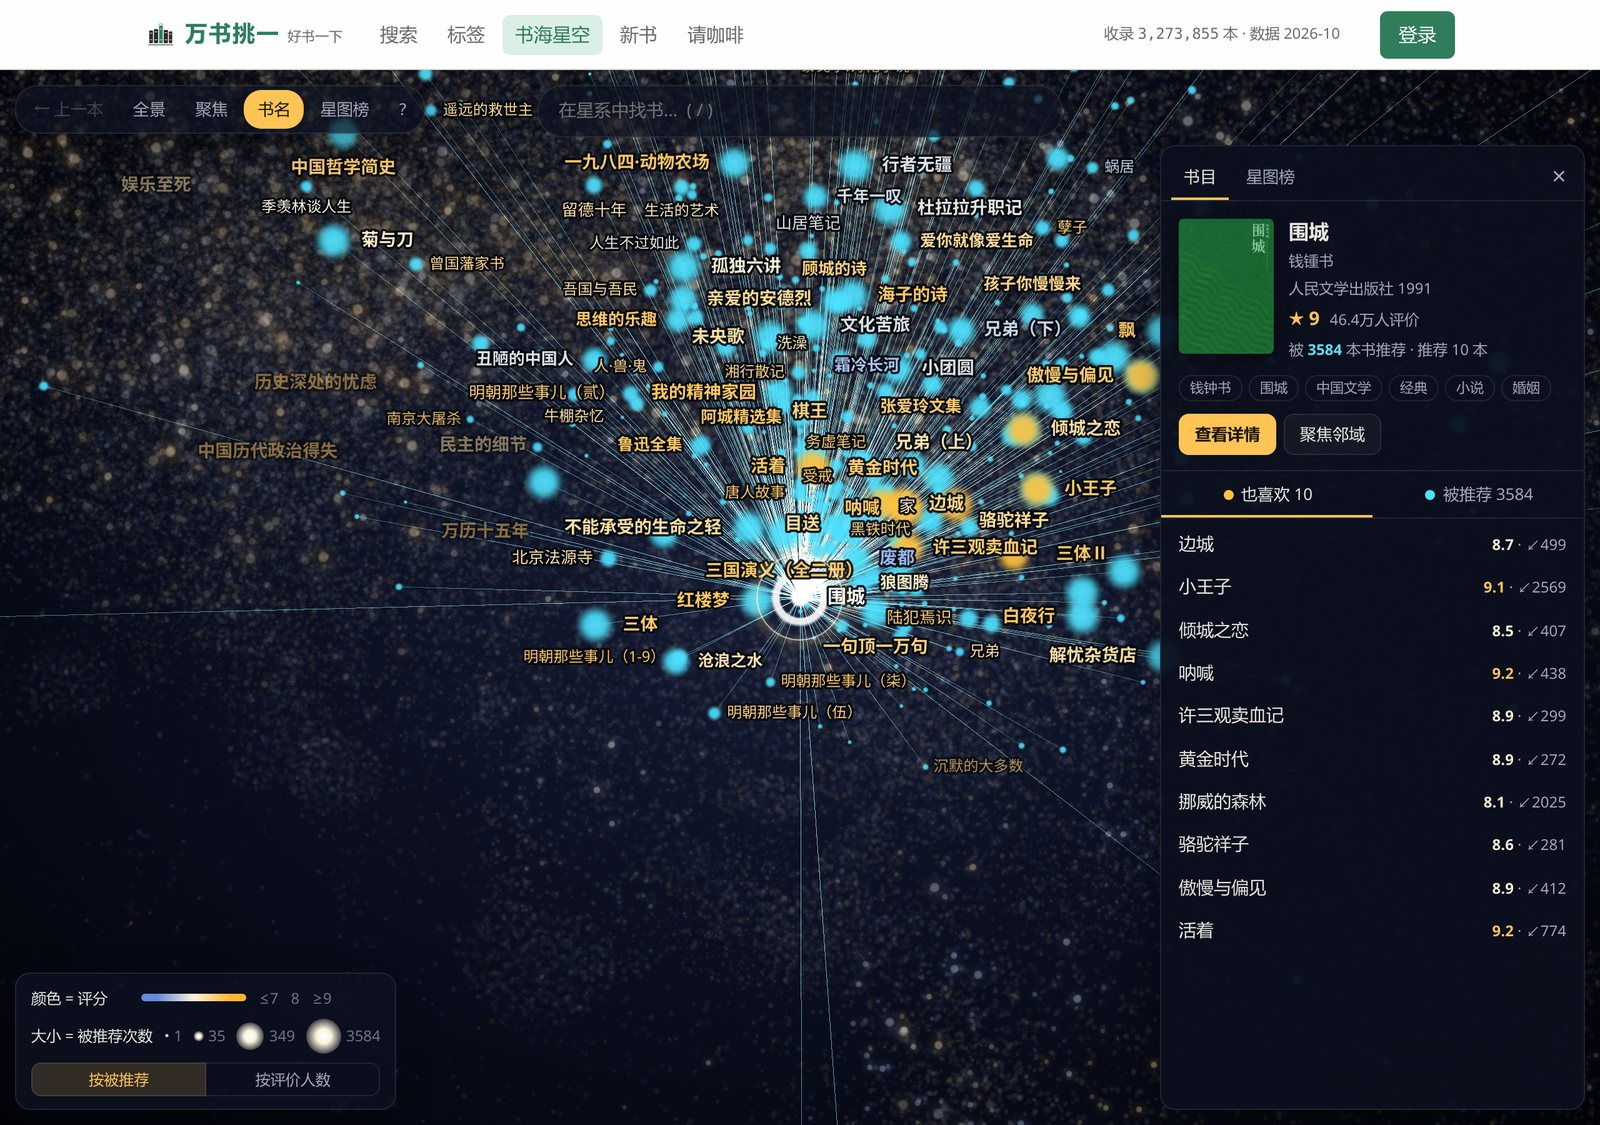
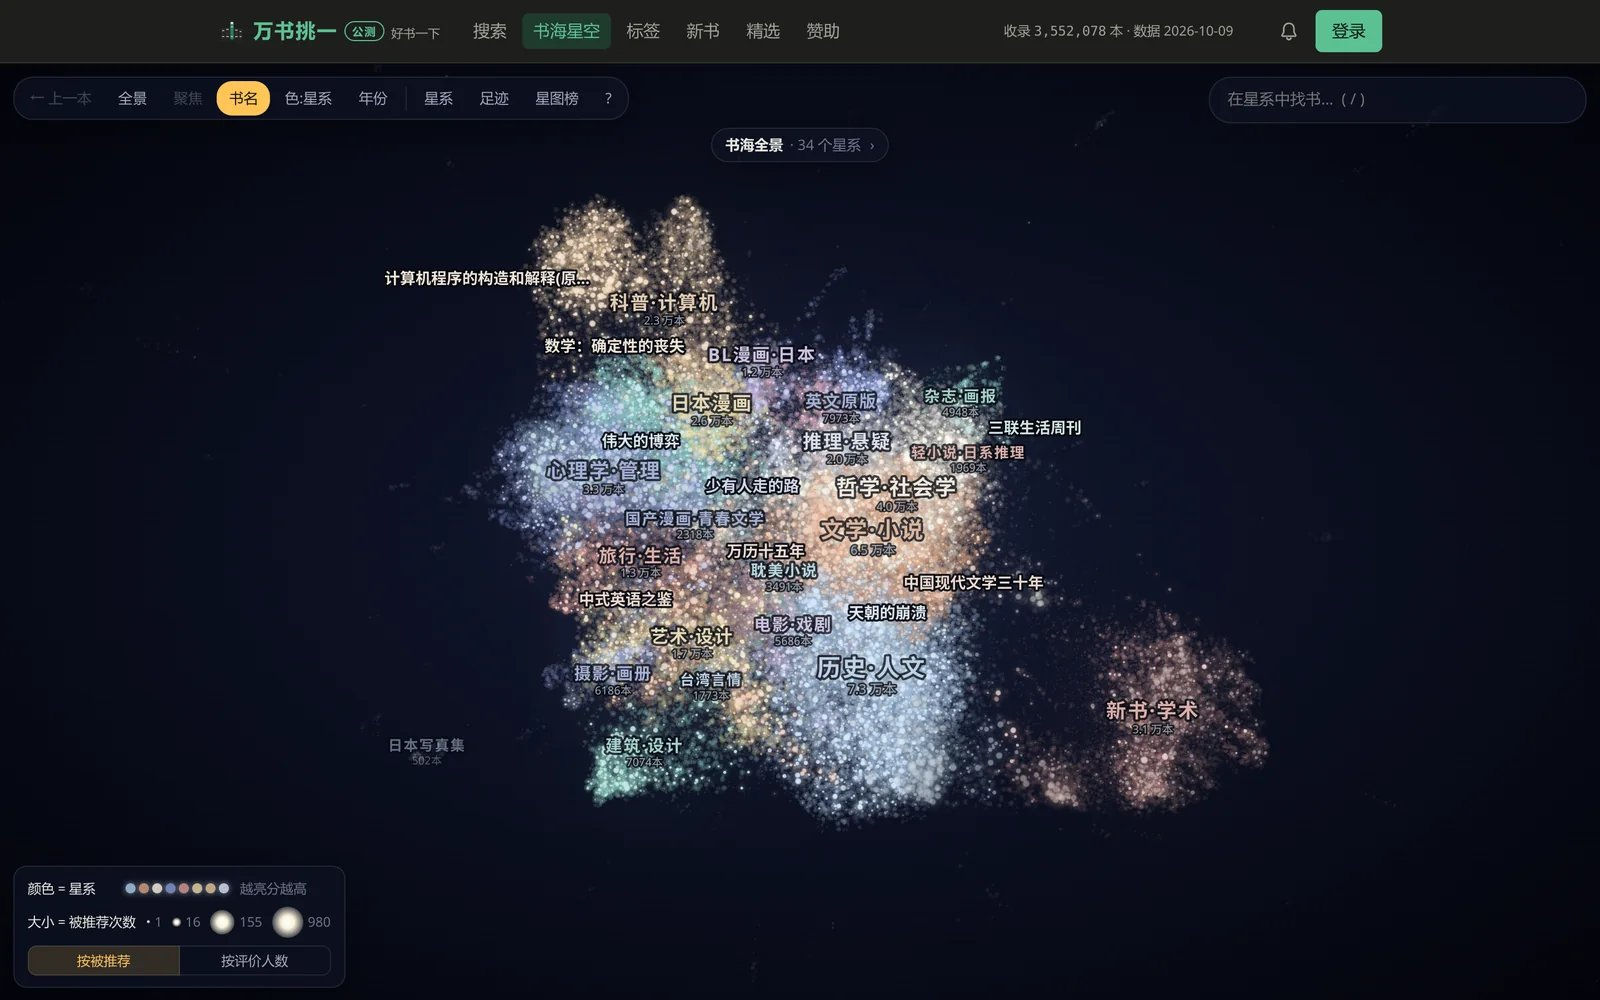
deploy: lanbing510/lanbing510-blog@21e959d2c695a04b5856ea9e490310acfd6b0e3f

diff --git a/2026/10/06/WanShuTiaoYi.html b/2026/10/06/WanShuTiaoYi.html
@@ -8,7 +8,7 @@
   <meta name="keywords" content="万书挑一，好书一下，书海星空，找书，好书，书单，豆瓣，好书指数，新书">
 
 
-  <meta name="description " content="好书一下 + 书海星空的重做版：三百多万本图书，按好书指数排序、多维筛选、新书雷达和书海星空关系图。">
+  <meta name="description " content="好书一下 + 书海星空的重做版：三百多万本图书，按好书指数排序、多维筛选、高级筛选、新书雷达和 49 万本书的书海星空。">
 
 
 <!--Https -> Http, Https Will Reuslt In Errors With Busuanzi -->
@@ -2569,17 +2569,44 @@ var _hmt = _hmt || [];
 
 <p><img src="/public/img/posts/wanshutiaoyi/tags.jpg" width="800px"> </img></p>
 
-<h3>三、新书雷达</h3>
+<h3>三、高级筛选：按评分形态挖书（赞助者）</h3>
 
-<p>2020 年之后新收录的书单独放在「新书雷达」里，可以按人气或评分排。数据每周增量更新，新书会陆续补进来。</p>
+<p><img src="/public/img/posts/wanshutiaoyi/adv.jpg" width="800px"> </img></p>
+
+<p>同样是 8.5 分，一本是众口一词，一本是粉丝和黑子吵出来的。高级筛选把这些差别拿出来当筛选条件：</p>
+
+<ol>
+<li><strong>评分形态</strong>：「口碑一致」是 4、5 星合计占 85% 以上，几乎没人说不好；「两极分化」是 5 星多、1~2 星也不少；「分高但虚」是 8.5 分以上但 5 星不到 45%。也可以自己设 5 星占比下限、1~2 星占比上限。</li>
+<li><strong>评价人数上限</strong>：只看 3000 人以内的，专挖还没被大众发现的书。上图就是「历史 · 口碑一致 · 200 到 3000 人」，出来的是谭其骧、陈寅恪、杨伯峻这一类。</li>
+<li><strong>被推荐次数</strong>：被多少本书的「喜欢这本书的人也喜欢」列出。它比评价人数更能看出一本书是不是经典，也可以直接按它排序。</li>
+<li><strong>出品方、译者、丛书、页数</strong>：按理想国、后浪、读库这类出品方筛，按译者筛，只看 200 页以内的周末读物。</li>
+<li><strong>星系</strong>：只看书海星空里某一个星系的书，比如只看「推理·悬疑」，按好书指数排。</li>
+</ol>
+
+<p>不想自己调参数，可以看每天自动更新的<a href="https://wanshutiaoyi.com/gems">冷门高分榜</a>：评价 200 到 3000 人、豆瓣 8.8 分以上的近年好书。</p>
+
+<h3>四、新书雷达</h3>
+
+<p>2020 年之后新收录的书单独放在「新书雷达」里，可以按人气或评分排。数据每天增量更新，新书会陆续补进来。</p>
 
 <p><img src="/public/img/posts/wanshutiaoyi/new_radar.jpg" width="800px"> </img></p>
 
-<h3>四、书海星空</h3>
+<h3>五、书海星空</h3>
 
-<p>当年的书海星空也搬了进来：44 万本书之间「读过这本的人也喜欢」的关系画成一张可以漫游的星图，每个点是一本书，大小是被推荐的次数，颜色是评分。从任何一本出发，都能顺着星图找到下一本。</p>
+<p>当年的书海星空也搬了进来，而且整个重做了：49.5 万本书之间 430 万条「读过这本的人也喜欢」的关系，画成一张能飞进去逛的三维星图。读者口味相近的书自己聚成了 34 个星系，历史·人文、推理·悬疑、科幻·奇幻……每个点是一本书，点越大被越多的书推荐，离得越近两本书的读者越重合。</p>
 
-<h3>五、详情页</h3>
+<ul>
+<li><strong>星系导览</strong>：一键飞进任何一个星系，看它的代表作，也能跳到按好书指数排好的书单。</li>
+<li><strong>顺藤摸瓜</strong>：选中一本书，列出同作者的其它书、本星系最值得读的书，以及它通往其它星系的「桥」。</li>
+<li><strong>年份播放</strong>：按下播放，看星空从 1900 年开始一年年亮起来。</li>
+<li><strong>足迹</strong>：逛过的书连成一条路线，可以保存、回放，生成链接分享给朋友。</li>
+</ul>
+
+<p><img src="/public/img/posts/wanshutiaoyi/galaxy_santi.jpg" width="800px"> </img></p>
+
+<p>详细的玩法见<a href="/2026/10/10/WanShuTiaoYiGalaxy.html">书海星空漫游指南</a>，里面有动图。</p>
+
+<h3>六、详情页</h3>
 
 <p>每本书的详情页有评分分布（五星到一星的占比，一眼能看出是不是「一边倒」）、简介，以及「喜欢这本书的人也喜欢」。</p>
 
@@ -2600,6 +2627,8 @@ var _hmt = _hmt || [];
 <li><a href="/2026/10/06/WanShuTiaoYiPsychology.html">心理学：评价过千的 616 本里，最值得读的 30 本</a></li>
 <li><a href="/2026/10/06/WanShuTiaoYiHistory.html">历史：评价过千的 1,130 本里，最值得读的 30 本</a></li>
 <li><a href="/2026/10/06/WanShuTiaoYiInvest.html">投资理财：评价过千的只有 122 本，最值得读的 30 本</a></li>
+<li><a href="/2026/10/09/WanShuTiaoYiParenting.html">育儿：评价过千的育儿书只有 60 本，最值得读的 30 本</a></li>
+<li><a href="/2026/10/10/WanShuTiaoYiGalaxy.html">书海星空漫游指南：在 355 万本书里，找一片属于你的星空</a></li>
 <li><a href="/2026/10/09/WanShuTiaoYiParenting.html">育儿：评价过千的育儿书只有 60 本，最值得读的 30 本</a></li>
 </ul>
 
